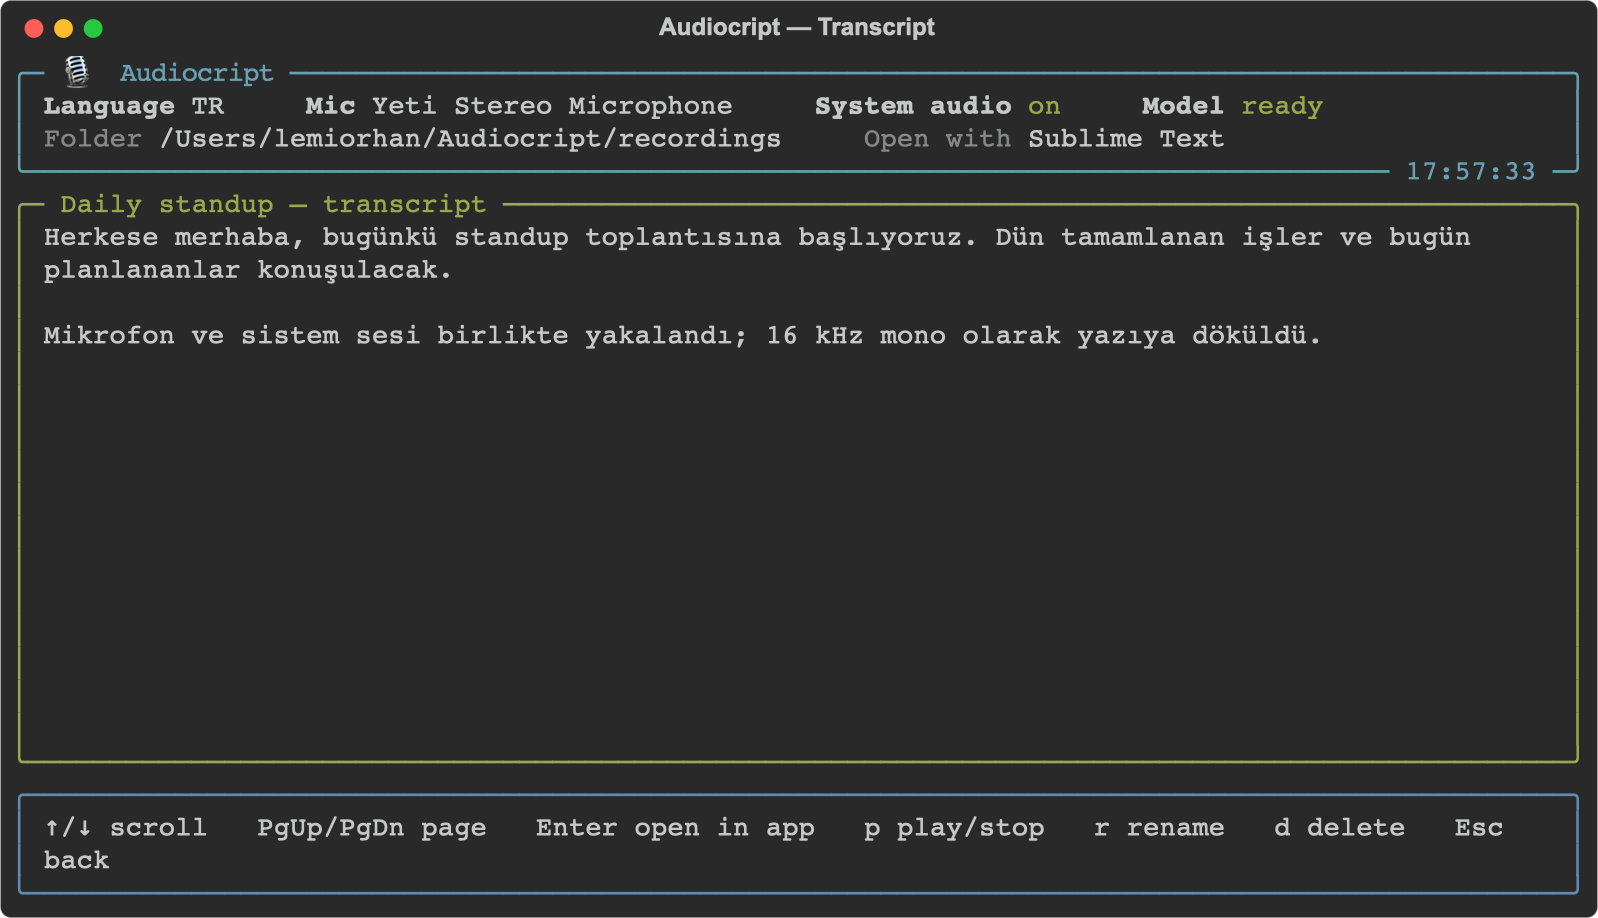
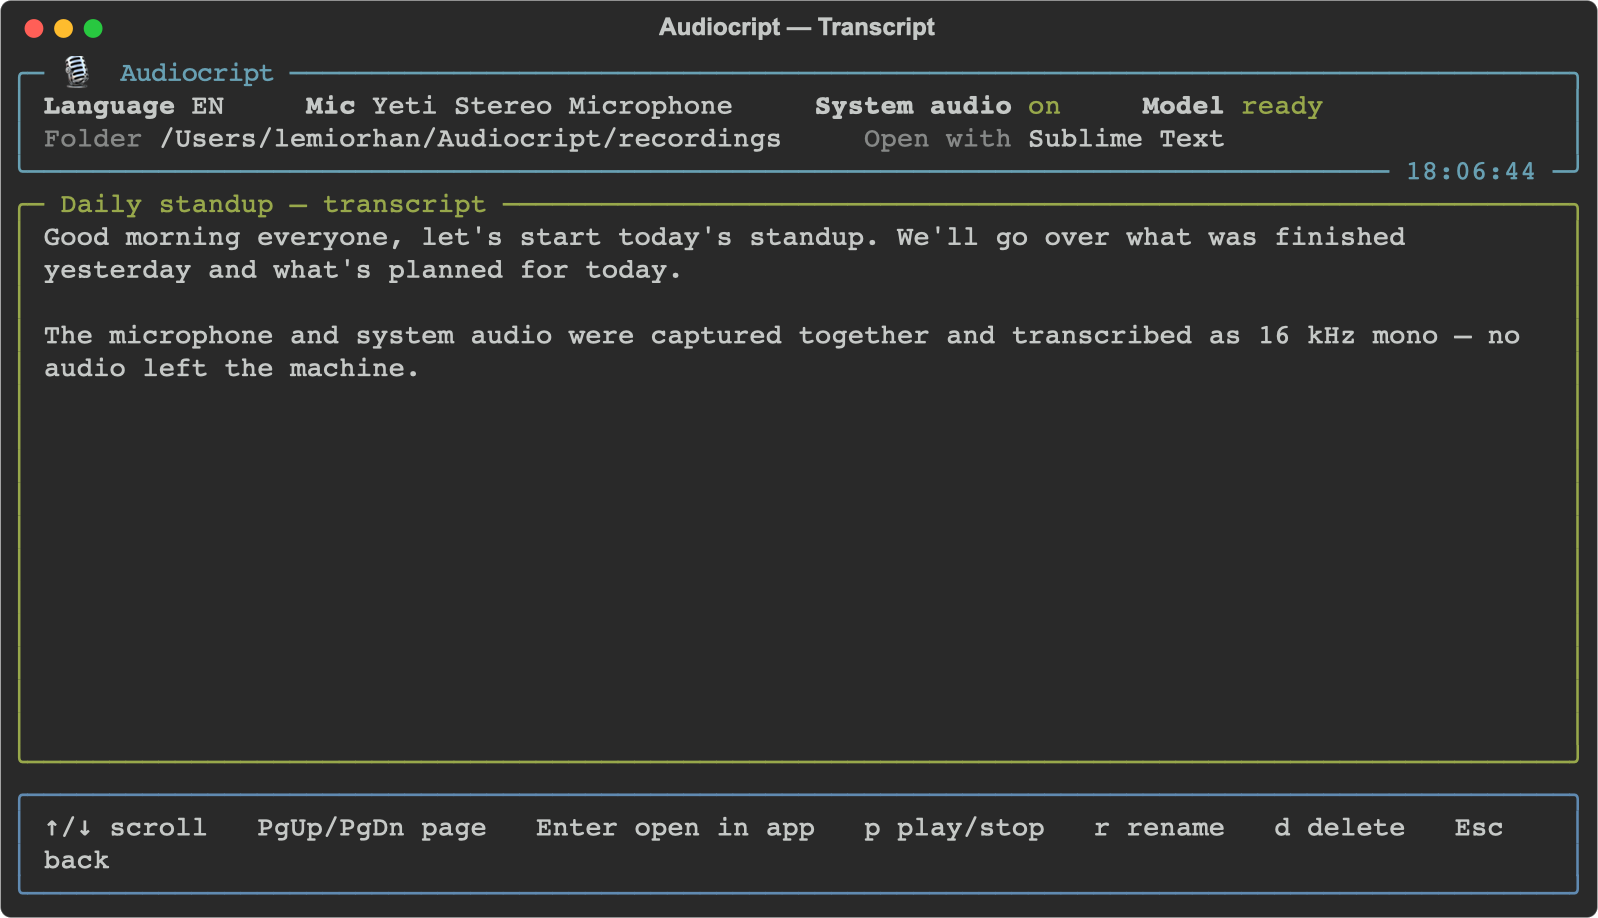
Translate all remaining Turkish comments/docstrings to English
The runtime UI was already English; this translates the in-code comments and
docstrings in audiocript.py to English too, and regenerates the transcript-viewer
screenshot with an English sample. (The only Turkish that remains is the original
author's name 'Şahan' in the attribution, which must stay.)

diff --git a/audiocript.py b/audiocript.py
@@ -8,7 +8,7 @@ import select
 import contextlib
 import threading
 import subprocess
-import termios  # Unix tabanlı sistemlerde çalışır.
+import termios  # available on Unix-based systems.
 import wave
 from datetime import datetime
 from pathlib import Path
@@ -22,13 +22,13 @@ from rich.live import Live
 from rich.text import Text
 from rich.layout import Layout
 
-# Uyarıları bastır (FutureWarning, DeprecationWarning, UserWarning)
+# Suppress warnings (FutureWarning, DeprecationWarning, UserWarning)
 warnings.filterwarnings("ignore", category=FutureWarning)
 warnings.filterwarnings("ignore", category=DeprecationWarning)
 warnings.filterwarnings("ignore", category=UserWarning)
 
-# transformers / huggingface_hub gürültüsünü kapat (import'tan ÖNCE ayarlanmalı;
-# bu kütüphaneler tembel (lazy) import edildiği için burada ayarlamak yeterli).
+# Quiet transformers / huggingface_hub noise (must be set BEFORE importing them;
+# they are imported lazily, so setting it here is enough).
 os.environ.setdefault("TRANSFORMERS_VERBOSITY", "error")
 os.environ.setdefault("TRANSFORMERS_NO_ADVISORY_WARNINGS", "1")
 os.environ.setdefault("HF_HUB_DISABLE_PROGRESS_BARS", "1")
@@ -37,8 +37,8 @@ os.environ.setdefault("TOKENIZERS_PARALLELISM", "false")
 
 
 def _silence_ml_logging():
-    """transformers ilerleme çubuklarını ve transformers/huggingface_hub uyarı
-    loglarını (ör. 'unauthenticated requests', logits processor uyarıları) kapatır."""
+    """Silence transformers progress bars and transformers/huggingface_hub warning
+    logs (e.g. 'unauthenticated requests', logits processor warnings)."""
     import logging
     try:
         import transformers
@@ -50,39 +50,39 @@ def _silence_ml_logging():
         logging.getLogger(name).setLevel(logging.ERROR)
 
 
-# Rich için konsol nesnesi oluşturuyoruz
+# Rich console object
 console = Console()
 
-# Tam ekran TUI etkinken kütüphane/uygulama yazdırmaları ekranı bozmasın diye
-# bastırılır (durum bilgisi arayüzde gösterilir).
+# While the full-screen TUI is active, library/app prints are suppressed so they
+# don't corrupt the screen (status is shown in the UI instead).
 _QUIET = False
 
-# Yapılandırma dosyası, scriptin yanında saklanır.
+# Config file, stored next to the script.
 CONFIG_PATH = Path(__file__).resolve().parent / "config.json"
 DEFAULT_BASE_PATH = Path.home() / "Audiocript" / "recordings"
 
-# Desteklenen diller: kod -> Whisper dil adı
+# Supported languages: code -> Whisper language name
 LANGUAGES = {"tr": "turkish", "en": "english"}
 
-# Her dil için kullanılacak model ve çalışma zamanı (runtime).
-#  - Türkçe: Hugging Face transformers ile Türkçe'ye ince ayarlı model.
-#  - İngilizce: whisper.cpp (pywhispercpp) ile ggml-distil-large-v3 modeli.
+# Model and runtime used per language.
+#  - Turkish: a Turkish fine-tuned model via Hugging Face transformers.
+#  - English: ggml-distil-large-v3 via whisper.cpp (pywhispercpp).
 TR_HF_MODEL = "selimc/whisper-large-v3-turbo-turkish"
 EN_GGML_REPO = "distil-whisper/distil-large-v3-ggml"
 EN_GGML_FILE = "ggml-distil-large-v3.bin"
 
-# Yüklenen modelleri tekrar tekrar yüklememek için önbellek.
+# Cache loaded models so they are not reloaded.
 _hf_pipe = None
 _cpp_model = None
-# Modeli aynı anda iki kez (ör. arka plan ön-ısıtma + transkripsiyon) yüklememek için kilit.
+# Lock so the model is not loaded twice at once (e.g. background pre-warm + transcription).
 _MODEL_LOCK = threading.Lock()
 
 
 def _free_cpp_model_quietly():
     """
-    whisper.cpp modeli serbest bırakılırken çıkardığı C/Metal teardown logunu
-    ('ggml_metal_free: deallocating') gizlemek için, modeli stderr (fd 2)
-    /dev/null'a yönlendirilmişken serbest bırakır. Çıkışta (atexit) çağrılır.
+    Free the whisper.cpp model while stderr (fd 2) is redirected to /dev/null, to
+    hide the C/Metal teardown log ('ggml_metal_free: deallocating') it prints on
+    release. Called at exit (atexit).
     """
     global _cpp_model
     if _cpp_model is None:
@@ -92,7 +92,7 @@ def _free_cpp_model_quietly():
         devnull = os.open(os.devnull, os.O_WRONLY)
         saved = os.dup(2)
         os.dup2(devnull, 2)
-        _cpp_model = None  # serbest bırakma logları /dev/null'a gider
+        _cpp_model = None  # release logs go to /dev/null
     except Exception:
         _cpp_model = None
     finally:
@@ -119,8 +119,8 @@ def clear_console():
 
 def flush_stdin():
     """
-    sys.stdin'de bekleyen (kalan) karakterleri temizler.
-    Unix tabanlı sistemlerde termios.tcflush() kullanarak giriş tamponunu temizler.
+    Clear any pending characters left in sys.stdin (using termios.tcflush()
+    on Unix-based systems).
     """
     try:
         termios.tcflush(sys.stdin, termios.TCIFLUSH)
@@ -129,7 +129,7 @@ def flush_stdin():
 
 
 def load_config():
-    """config.json'u okur. Dosya yoksa veya bozuksa boş bir sözlük döndürür."""
+    """Read config.json; return an empty dict if missing or invalid."""
     try:
         with open(CONFIG_PATH, "r", encoding="utf-8") as f:
             cfg = json.load(f)
@@ -139,7 +139,7 @@ def load_config():
 
 
 def save_config(cfg):
-    """Yapılandırmayı config.json'a yazar."""
+    """Write the config to config.json."""
     with open(CONFIG_PATH, "w", encoding="utf-8") as f:
         json.dump(cfg, f, indent=2, ensure_ascii=False)
 
@@ -150,7 +150,7 @@ def lang_name(code):
 
 
 def list_input_devices():
-    """Giriş (input) yapabilen ses cihazlarının (index, name) listesini döndürür."""
+    """Return (index, name) of audio devices that can capture input."""
     result = []
     for idx, dev in enumerate(sd.query_devices()):
         if dev.get("max_input_channels", 0) > 0:
@@ -168,10 +168,9 @@ def device_name(index):
 
 def mix_to_mono(arrays):
     """
-    Bir veya daha fazla mono int16 sinyali tek bir int16 sinyalde birleştirir.
-    Akışları en kısa olanın uzunluğuna göre kırpar (cihazların saatleri biraz
-    kayabilir). Toplama yapar ve gerekirse kırpılmayı (clipping) önlemek için
-    tepe değere göre ölçekler.
+    Mix one or more mono int16 signals into a single int16 signal. Trims streams
+    to the shortest length (device clocks drift slightly), sums them, and scales
+    down by the peak if needed to avoid clipping.
     """
     arrays = [a for a in arrays if a is not None and len(a) > 0]
     if not arrays:
@@ -190,15 +189,15 @@ def mix_to_mono(arrays):
 
 def resample_to_target(arr, src_fs, target_fs=16000):
     """
-    Bir sinyali (int16 veya float32; mono ya da çok kanallı) hedef örnekleme
-    hızında (Whisper için 16000 Hz) mono int16'ya dönüştürür. Çok kanallıysa
-    kanalları ortalar. src_fs == target_fs ise yeniden örnekleme yapmadan sadece
-    mono'ya indirger. Yeniden örnekleme torchaudio ile yapılır (anti-aliasing'li).
+    Convert a signal (int16 or float32; mono or multi-channel) to mono int16 at
+    the target sample rate (16000 Hz for Whisper). Averages channels if multi-
+    channel. If src_fs == target_fs, just downmix to mono without resampling.
+    Resampling uses torchaudio (anti-aliased).
     """
     if arr is None or len(arr) == 0:
         return None
     if np.issubdtype(arr.dtype, np.floating):
-        f = arr.astype(np.float32)            # zaten [-1, 1] aralığında
+        f = arr.astype(np.float32)            # already in [-1, 1]
     else:
         f = arr.astype(np.float32) / 32768.0  # int16 -> [-1, 1]
     if f.ndim == 2:                       # (N, kanal) -> ortalama ile mono
@@ -207,24 +206,24 @@ def resample_to_target(arr, src_fs, target_fs=16000):
         import torch
         import torchaudio.functional as AF
         w = torch.from_numpy(np.ascontiguousarray(f))
-        # Yüksek kaliteli, anti-aliasing'li yeniden örnekleme (soxr-VHQ'ya yakın).
-        # Varsayılan parametreler 8 kHz Nyquist üzerindeki tonları yeterince
-        # bastırmaz; Kaiser penceresi ile dar geçiş bandı sağlanır.
+        # High-quality anti-aliased resampling (close to soxr-VHQ). The default
+        # parameters don't suppress tones above the 8 kHz Nyquist enough; the
+        # Kaiser window provides a narrow transition band.
         f = AF.resample(
             w, orig_freq=src_fs, new_freq=target_fs,
             lowpass_filter_width=64, rolloff=0.945,
             resampling_method="sinc_interp_kaiser", beta=14.769656459379492,
         ).numpy()
-    # float -> int16: ölçekle, yuvarla ve taşmayı önlemek için kırp.
+    # float -> int16: scale, round, and clip to avoid overflow.
     i16 = np.clip(np.round(f * 32768.0), -32768, 32767).astype(np.int16)
     return i16
 
 
 def _coreaudio_extra_settings():
     """
-    macOS'ta PortAudio'nun cihazın global örnekleme hızını değiştirmesini
-    engelleyen ayarı döndürür (varsa). Bu, bir cihaza bağlanırken o cihazdan
-    çalan sesin kesilmesini önler. Desteklenmiyorsa None döner.
+    Return the setting that stops PortAudio from changing a device's global
+    sample rate on macOS (if available). This keeps audio playing from a device
+    from being interrupted when we connect to it. Returns None if unsupported.
     """
     settings_cls = getattr(sd, "CoreAudioSettings", None)
     if settings_cls is None:
@@ -235,7 +234,7 @@ def _coreaudio_extra_settings():
         return None
 
 
-# --- Core Audio sistem sesi yakalayıcı (Swift yardımcı program) ---
+# --- Core Audio system-audio capture (Swift helper) ---
 TAP_DIR = Path(__file__).resolve().parent / "mac_audio_tap"
 TAP_SRC = TAP_DIR / "system_audio_tap.swift"
 TAP_BIN = TAP_DIR / "system_audio_tap"
@@ -243,8 +242,8 @@ TAP_BIN = TAP_DIR / "system_audio_tap"
 
 def build_tap_binary():
     """
-    Sistem sesi yakalayan Swift yardımcı programını gerekiyorsa derler ve yolunu
-    döndürür. swiftc yoksa veya derleme başarısızsa RuntimeError fırlatır.
+    Compile the Swift system-audio helper if needed and return its path. Raises
+    RuntimeError if swiftc is missing or compilation fails.
     """
     if not TAP_SRC.exists():
         raise RuntimeError(f"tap source file not found: {TAP_SRC}")
@@ -266,7 +265,7 @@ def build_tap_binary():
 
 
 class DeviceRecorder:
-    """sounddevice ile bir giriş cihazından (mikrofon) doğal hızda kayıt yapar."""
+    """Record from one input device (microphone) at its native rate via sounddevice."""
 
     def __init__(self, index):
         self.index = index
@@ -276,7 +275,7 @@ class DeviceRecorder:
         self.channels = max(1, min(2, int(info['max_input_channels'])))
         self._frames = []
         self._stream = None
-        self._level = 0.0  # canlı VU göstergesi için anlık seviye (0..1)
+        self._level = 0.0  # instantaneous level for the live VU meter (0..1)
         self.meter_name = f"🎤 {self.name}"
 
     @property
@@ -293,7 +292,7 @@ class DeviceRecorder:
             self._frames.append(indata.copy())
             if indata.size:
                 peak = float(np.max(np.abs(indata))) / 32768.0
-                # peak-hold + sönümleme: VU çubuğu sese tepki verir, yumuşak iner.
+                # peak-hold + decay: the VU bar reacts to sound and falls smoothly.
                 self._level = max(peak, self._level * 0.85)
         kwargs = dict(samplerate=self.rate, channels=self.channels,
                       dtype='int16', device=self.index, callback=callback)
@@ -320,9 +319,9 @@ class DeviceRecorder:
 
 class TapRecorder:
     """
-    macOS Core Audio process tap ile TÜM sistem sesini (hoparlör/Zoom/YouTube)
-    yakalar. Swift yardımcı programını alt süreç olarak çalıştırır; ses çalmaya
-    DEVAM eder (unmuted), BlackHole/yeniden yönlendirme gerekmez.
+    Capture the ENTIRE system audio (speakers/Zoom/YouTube) via a macOS Core
+    Audio process tap. Runs the Swift helper as a subprocess; playback KEEPS
+    PLAYING (unmuted), and no BlackHole / rerouting is needed.
     """
 
     def __init__(self):
@@ -337,13 +336,13 @@ class TapRecorder:
         self._stderr = []
         self._ready = threading.Event()
         self._error = None
-        self._level = 0.0  # canlı VU göstergesi için anlık seviye (0..1)
+        self._level = 0.0  # instantaneous level for the live VU meter (0..1)
 
     def level(self):
         return self._level
 
     def start(self):
-        binpath = build_tap_binary()  # gerekiyorsa derler; başarısızsa RuntimeError
+        binpath = build_tap_binary()  # compiles if needed; raises on failure
         self._proc = subprocess.Popen(
             [str(binpath)], stdout=subprocess.PIPE, stderr=subprocess.PIPE, bufsize=0,
         )
@@ -351,7 +350,7 @@ class TapRecorder:
         self._stderr_reader.start()
         self._reader = threading.Thread(target=self._read_stdout, daemon=True)
         self._reader.start()
-        # Başlık satırını (örnekleme hızı/kanal) bekle; gelmezse izin sorunu olabilir.
+        # Wait for the header (sample rate/channels); if it never arrives, likely a permission issue.
         if not self._ready.wait(timeout=10):
             self.stop()
             raise RuntimeError(
@@ -372,7 +371,7 @@ class TapRecorder:
 
     def _read_stdout(self):
         f = self._proc.stdout
-        # 1) Başlık satırını oku: "samplerate=<r> channels=<c> format=f32le\n"
+        # 1) Read the header line: "samplerate=<r> channels=<c> format=f32le\n"
         header = b""
         while not header.endswith(b"\n"):
             b = f.read(1)
@@ -390,7 +389,7 @@ class TapRecorder:
             self._ready.set()
             return
         self._ready.set()
-        # 2) Kalan veriyi (float32 PCM) topla ve canlı seviyeyi güncelle.
+        # 2) Collect the remaining data (float32 PCM) and update the live level.
         while True:
             data = f.read(8192)
             if not data:
@@ -597,7 +596,7 @@ def _extract_audio(src, dest_wav, target_fs=16000, on_pct=None, duration=None):
 
 
 def pick_device():
-    """transformers pipeline için uygun cihazı seçer (CUDA > MPS > CPU)."""
+    """Pick a suitable device for the transformers pipeline (CUDA > MPS > CPU)."""
     import torch
     if torch.cuda.is_available():
         return "cuda:0"